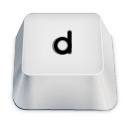
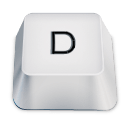
fix: change keyboards input to comply with keyboard nav

Changed region(s): [[0.375, 0.2188, 0.5938, 0.4375]]

diff --git a/host/front-end/index.html b/host/front-end/index.html
@@ -96,10 +96,10 @@
                 <h1 id="1v1_guest_timer" class="d-flex justify-content-center text d-none" data-tsnormal="45px" data-tslarge="55px"></h1>
                 <div id="o_guest_foot" class="d-flex flex-column align-items-center">
                         <div class="game_keys w-100">
-                            <img class="float-end keysup img-fluid mb-0" data-isnormal="6%" data-islarge="10%" data-alt="Keyboard Up Tuto" src="./Materials/images/ArrowUp.png"  tabindex="-1">
+                            <img class="float-end keysup img-fluid mb-0" data-isnormal="6%" data-islarge="10%" data-alt="Keyboard O Tuto" src="./Materials/images/O.png"  tabindex="-1">
                         </div>
                         <div class="game_keys w-100">
-                            <img class="keysdown float-end" src="./Materials/images/ArrowDown.png" data-alt="Keyboard Down Tuto" data-isnormal="6%" data-islarge="10%"  tabindex="-1">
+                            <img class="keysdown float-end" src="./Materials/images/L.png" data-alt="Keyboard L Tuto" data-isnormal="6%" data-islarge="10%"  tabindex="-1">
                         </div>
                 </div>
             </div>
@@ -119,12 +119,12 @@
                     <div id="l_1v1_foot" class="d-flex flex-column align-items-center">
                         <div class="game_keys w-100">
                             <img class="keysup float-start mb-2" data-isnormal="6%" data-alt="Keyboard E Tuto" data-islarge="10%" src="./Materials/images/E.png"  tabindex="-1">
-                            <img class="float-end keysup img-fluid mb-0" data-isnormal="6%" data-alt="Keyboard Up Tuto" data-islarge="10%" src="./Materials/images/ArrowUp.png"  tabindex="-1">
+                            <img class="float-end keysup img-fluid mb-0" data-isnormal="6%" data-alt="Keyboard O Tuto" data-islarge="10%" src="./Materials/images/O.png"  tabindex="-1">
                             <button id="start_1v1_local" class="btn btn-lg btn-simple btn-outline-danger mx-auto" data-tsnormal="30px" data-tslarge="40px" data-oname="Launch a game" data-title="Launch a Game"></button>
                         </div>
                         <div class="game_keys w-100">
                             <img class="keysdown float-start" src="./Materials/images/D.png" data-isnormal="6%" data-alt="Keyboard D Tuto" data-islarge="10%" tabindex="-1">
-                            <img class="keysdown float-end" src="./Materials/images/ArrowDown.png" data-alt="Keyboard Down Tuto" data-isnormal="6%" data-islarge="10%" tabindex="-1">
+                            <img class="keysdown float-end" src="./Materials/images/L.png" data-alt="Keyboard L Tuto" data-isnormal="6%" data-islarge="10%" tabindex="-1">
                         </div>
                     </div>
             </div>
@@ -143,13 +143,13 @@
                         <button id="start_2v1_local" class="btn btn-lg btn-simple btn-outline-danger mt-0" data-tsnormal="30px" data-tslarge="40px" data-oname="Launch a game"></button>
                     <div class="game_keys w-100">
                         <img class="keysup d-inline-block float-start mb-2" data-isnormal="6%" data-alt="Keyboard E Tuto" data-islarge="10%" src="./Materials/images/E.png" tabindex="-1">
-                        <img class="d-inline-block float-end keysup img-fluid mb-0" data-isnormal="6%" data-islarge="10%" data-alt="Keyboard Up Tuto" src="./Materials/images/ArrowUp.png" tabindex="-1">
-                        <img class="d-inline-block float-end keysup img-fluid mb-0" data-alt="Keyboard U Tuto" data-isnormal="6%" data-islarge="10%" src="./Materials/images/U.png" tabindex="-1">
+                        <img class="d-inline-block float-end keysup img-fluid mb-0" data-isnormal="6%" data-islarge="10%" data-alt="Keyboard O Tuto 2v1" src="./Materials/images/O.png" tabindex="-1">
+                        <img class="d-inline-block float-end keysup img-fluid mb-0" data-alt="Keyboard Y Tuto" data-isnormal="6%" data-islarge="10%" src="./Materials/images/Y.png" tabindex="-1">
                     </div>
                     <div class="game_keys w-100">
                         <img class="keysdown d-inline-block float-start" src="./Materials/images/D.png" data-alt="Keyboard D Tuto" data-isnormal="6%" data-islarge="10%" tabindex="-1">
-                        <img class="keysdown d-inline-block float-end img-fluid mb-0" src="./Materials/images/ArrowDown.png" data-alt="Keyboard Down Tuto" data-isnormal="6%" data-islarge="10%" tabindex="-1">
-                        <img class="keysdown d-inline-block float-end img-fluid mb-0" src="./Materials/images/J.png" data-alt="Keyboard J Tuto" data-isnormal="6%" data-islarge="10%" tabindex="-1">
+                        <img class="keysdown d-inline-block float-end img-fluid mb-0" src="./Materials/images/L.png" data-alt="Keyboard L Tuto 2v1" data-isnormal="6%" data-islarge="10%" tabindex="-1">
+                        <img class="keysdown d-inline-block float-end img-fluid mb-0" src="./Materials/images/H.png" data-alt="Keyboard H Tuto" data-isnormal="6%" data-islarge="10%" tabindex="-1">
                     </div>
                 </div>
             </div>
@@ -166,13 +166,13 @@
                 <div id="t_foot" class="d-flex flex-column align-items-center">
                         <div class="game_keys w-100">
                             <img class="keysup float-start mb-2" data-isnormal="6%" data-islarge="10%" data-alt="Keyboard E Tuto" src="./Materials/images/E.png" tabindex="-1">
-                            <img class= "float-end keysup img-fluid mb-0" data-isnormal="6%" data-islarge="10%" data-alt="Keyboard Up Tuto" src="./Materials/images/ArrowUp.png" tabindex="-1">
+                            <img class= "float-end keysup img-fluid mb-0" data-isnormal="6%" data-islarge="10%" data-alt="Keyboard O Tuto" src="./Materials/images/O.png" tabindex="-1">
                             <button id="t_start_game" class="btn btn-lg btn-simple btn-outline-danger mx-auto" data-tsnormal="30px" data-tslarge="40px" data-oname="Launch a game" data-title="Launch a Game"></button>
                             <button id="t_next_game" class="btn btn-lg btn-simple btn-outline-danger mx-auto" data-tsnormal="30px" data-tslarge="40px" data-oname="Next Game"></button>
                         </div>
                         <div class="game_keys w-10">
                             <img class="keysdown float-start" data-alt="Keyboard D Tuto" src="./Materials/images/D.png" data-isnormal="6%" data-islarge="10%" tabindex="-1">
-                            <img class="keysdown float-end" data-alt="Keyboard Down Tuto" src="./Materials/images/ArrowDown.png" data-isnormal="6%" data-islarge="10%" tabindex="-1">
+                            <img class="keysdown float-end" data-alt="Keyboard L Tuto" src="./Materials/images/L.png" data-isnormal="6%" data-islarge="10%" tabindex="-1">
                         </div>
                     </div>
             </div>

diff --git a/host/front-end/JavaScript/Game/game.js b/host/front-end/JavaScript/Game/game.js
@@ -65,9 +65,9 @@ function displayCountDown(nb)
         timer.classList.add("d-none");
         game_music.play();
         active = true;
+        addKeyboardMonitoring();
         if (players_nb == 1){
             startOnline1v1();
-        
         }
         else if (players_nb == 2)
             startLocal1v1();
@@ -84,111 +84,119 @@ let gameKeys = {
     KeyE: false,
     KeyD: false,
 
-    KeyU: false,
-    KeyJ: false,
+    KeyY: false,
+    KeyH: false,
 
-    ArrowUp: false,
-    ArrowDown: false,
+    KeyO: false,
+    KeyL: false,
 };
 
 // < TRIGGER > //
 
-window.addEventListener('keydown', (event) =>
-{
+function addKeyboardMonitoring(){
+    window.addEventListener('keydown', keyboardMonitoring_keyDown);
+    window.addEventListener('keyup', keyboardMonitoring_keyUp);
+}
+
+function removeKeyboardMonitoring(){
+    window.removeEventListener('keydown', keyboardMonitoring_keyDown);
+    window.removeEventListener('keyup', keyboardMonitoring_keyUp);
+}
+
+function keyboardMonitoring_keyDown(event){
+    let key = event.key.toLowerCase();
     if (players_nb != 0 && players_nb != null)
     {
-        if (event.key == 'ArrowUp' || event.key == 'ArrowDown')
-            event.preventDefault();
         if (players_nb == 1)
         {
             if (role == "host")
             {
-                if (event.key == 'e')
+                if (key == 'e')
                     gameKeys.KeyE = true;
-                else if (event.key == 'd')
+                else if (key == 'd')
                     gameKeys.KeyD = true;
             }
             else
             {
 
-                if (event.key == 'ArrowUp')
-                    gameKeys.ArrowUp = true
-                else if (event.key == 'ArrowDown')
-                    gameKeys.ArrowDown = true
+                if (key == 'o')
+                    gameKeys.KeyO = true
+                else if (key == 'l')
+                    gameKeys.KeyL = true
             }
         }
         if (players_nb == 2)
         {
 
-            if (event.key == 'ArrowUp'){
-                gameKeys.ArrowUp = true;
+            if (key == 'o'){
+                gameKeys.KeyO = true;
             }
-            else if (event.key == 'ArrowDown')
-                gameKeys.ArrowDown = true;
+            else if (key == 'l')
+                gameKeys.KeyL = true;
 
-            if (event.key == 'e')
+            if (key == 'e')
                 gameKeys.KeyE = true;
-            else if (event.key == 'd')
+            else if (key == 'd')
                 gameKeys.KeyD = true;
         }
         else if (players_nb == 3)
         {
 
-            if (event.key == 'e')
+            if (key == 'e')
                 gameKeys.KeyE = true;
-            else if (event.key == 'd')
+            else if (key == 'd')
                 gameKeys.KeyD = true;
 
-            if (event.key == 'u')
-                gameKeys.KeyU = true;
-            else if (event.key == 'j')
-                gameKeys.KeyJ = true;
+            if (key == 'y')
+                gameKeys.KeyY = true;
+            else if (key == 'h')
+                gameKeys.KeyH = true;
 
-            if (event.key == 'ArrowUp')
-                gameKeys.ArrowUp = true;
-            else if (event.key == 'ArrowDown')
-                gameKeys.ArrowDown = true;
+            if (key == 'o')
+                gameKeys.KeyO = true;
+            else if (key == 'l')
+                gameKeys.KeyL = true;
         }
     }
-});
+}
 
-window.addEventListener('keyup', (event) =>
-{
+function keyboardMonitoring_keyUp(event){
+    let key = event.key.toLowerCase()
     if (players_nb == 1)
     {
         if (role == "host")
         {
-            if (event.key == 'e')
+            if (key == 'e')
                 gameKeys.KeyE = false;
-            else if (event.key == 'd')
+            else if (key == 'd')
                 gameKeys.KeyD = false;
         }
         else
         {
-            if (event.key == 'ArrowUp')
-                gameKeys.ArrowUp = false
-            else if (event.key == 'ArrowDown')
-                gameKeys.ArrowDown = false
+            if (key == 'o')
+                gameKeys.KeyO = false
+            else if (key == 'l')
+                gameKeys.KeyL = false
         }
     }
     else
     {
-        if (event.key == 'ArrowUp')
-            gameKeys.ArrowUp = false;
-        else if (event.key == 'ArrowDown')
-            gameKeys.ArrowDown = false;
+        if (key == 'o')
+            gameKeys.KeyO = false;
+        else if (key == 'l')
+            gameKeys.KeyL = false;
 
-        if (event.key == 'e')
+        if (key == 'e')
             gameKeys.KeyE = false;
-        else if (event.key == 'd')
+        else if (key == 'd')
             gameKeys.KeyD = false;
 
         if (players_nb == 3)
         {
-            if (event.key == 'u')
-                gameKeys.KeyU = false;
-            else if (event.key == 'j')
-                gameKeys.KeyJ = false;
+            if (key == 'y')
+                gameKeys.KeyY = false;
+            else if (key == 'h')
+                gameKeys.KeyH = false;
         }
     }
-});
+}

diff --git a/host/front-end/JavaScript/Languages/fr.js b/host/front-end/JavaScript/Languages/fr.js
@@ -238,12 +238,14 @@ let fr = [
 
     ["Top Logo Alt", "Logo du site web. Tactical Tennis Action Metal Gear Pong. Retour au menu principal."],
 
-    ["Keyboard U Tuto", "Touche  U du clavier. Informe l'utilisateur en haut à droite de la touche clavier à utiliser pour aller vers le haut."],
-    ["Keyboard J Tuto", "Touche  J du clavier. Informe l'utilisateur en haut a droite de la touche clavier à utiliser pour aller vers le bas."],
+    ["Keyboard Y Tuto", "Touche  Y du clavier. Informe l'utilisateur en haut à droite de la touche clavier à utiliser pour aller vers le haut."],
+    ["Keyboard H Tuto", "Touche  H du clavier. Informe l'utilisateur en haut a droite de la touche clavier à utiliser pour aller vers le bas."],
     ["Keyboard E Tuto", "Touche  E du clavier. Informe l'utilisateur de gauche de la touche clavier à utiliser pour aller vers le haut."],
     ["Keyboard D Tuto", "Touche  D du clavier. Informe l'utilisateur de gauche de la touche clavier à utiliser pour aller vers le bas."],
-    ["Keyboard Up Tuto", "Touche flèche du haut du clavier. Informe l'utilisateur de droite de la touche clavier à utiliser pour aller vers le haut."],
-    ["Keyboard Down Tuto", "Touche flèche du bas du clavier. Informe l'utilisateur de droite de la touche clavier à utiliser pour aller vers le bas."],
+    ["Keyboard O Tuto", "Touche O du clavier. Informe l'utilisateur de droite de la touche clavier à utiliser pour aller vers le haut."],
+    ["Keyboard L Tuto", "Touche L du clavier. Informe l'utilisateur de droite de la touche clavier à utiliser pour aller vers le bas."],
+    ["Keyboard O Tuto 2v1", "Touche O du clavier. Informe l'utilisateur en bas à droite de la touche clavier à utiliser pour aller vers le haut."],
+    ["Keyboard L Tuto 2v1", "Touche L du clavier. Informe l'utilisateur en bas à droite de la touche clavier à utiliser pour aller vers le bas."],
 
     ["Music Icon", "Icòne de la musique. Cliquez pour activer ou désactiver la musique"],
     ["Sound Icon", "Icône du son. Cliquez pour activer ou désactiver les sons"],

diff --git a/host/front-end/JavaScript/Languages/en.js b/host/front-end/JavaScript/Languages/en.js
@@ -234,12 +234,14 @@ let en = [
 
     ["Top Logo Alt", "Website logo : Tactical Tennis Action Metal Gear Pong. Get back to main menu."],
 
-    ["Keyboard U Tuto", "U keyboard key, inform the top-right player that this input is used to go up in the game."],
-    ["Keyboard J Tuto", "J keyboard key, inform the top-right player that this input is used to go down in the game."],
+    ["Keyboard Y Tuto", "Y keyboard key, inform the top-right player that this input is used to go up in the game."],
+    ["Keyboard H Tuto", "H keyboard key, inform the top-right player that this input is used to go down in the game."],
     ["Keyboard E Tuto", "E keyboard key, inform the left player that, this input is used to go up in the game."],
     ["Keyboard D Tuto", "D keyboard key, inform the left player that this input is used to go down in the game."],
-    ["Keyboard Up Tuto", "Up Arrow keyboard key, inform the right player that this input is used to go up in the game."],
-    ["Keyboard Down Tuto", "Down Arrow keyboard key, inform the right player that this input is used to go down in the game."],
+    ["Keyboard O Tuto", "O keyboard key, inform the right player that this input is used to go up in the game."],
+    ["Keyboard L Tuto", "L keyboard key, inform the right player that this input is used to go down in the game."],
+    ["Keyboard O Tuto 2v1", "O keyboard key, inform the bottom-right player that this input is used to go up in the game."],
+    ["Keyboard L Tuto 2v1", "L keyboard key, inform the bottom-right player that this input is used to go down in the game."],
 
     ["Music Icon", "Music icon. Click to toggle musics on or off."],
     ["Sound Icon", "Sound icon. Click to toggle sounds on or off."],

diff --git a/host/front-end/JavaScript/Game/oneVsTwoLocal.js b/host/front-end/JavaScript/Game/oneVsTwoLocal.js
@@ -269,14 +269,14 @@ class LocalGame1v2
         if (gameKeys.KeyD == true)
             this.left_player.moveDown();
 
-        if (gameKeys.KeyU == true)
+        if (gameKeys.KeyY == true)
             this.right_player_1.moveUp();
-        if (gameKeys.KeyJ == true)
+        if (gameKeys.KeyH == true)
             this.right_player_1.moveDown();
 
-        if (gameKeys.ArrowUp == true)
+        if (gameKeys.KeyO == true)
             this.right_player_2.moveUp();
-        if (gameKeys.ArrowDown == true)
+        if (gameKeys.KeyL == true)
             this.right_player_2.moveDown();
 
         this.left_player.print();
@@ -416,6 +416,7 @@ function startLocal1v2()
 {
     if (game.isOver() == true || active == false)
     {
+        removeKeyboardMonitoring();
         game.refreshBackground();
         game.resetGame();
         active = false;

diff --git a/host/front-end/JavaScript/Game/oneVsOneLocal.js b/host/front-end/JavaScript/Game/oneVsOneLocal.js
@@ -254,9 +254,9 @@ class LocalGame1v1
         if (gameKeys.KeyD == true)
             this.left_player.moveDown();
 
-        if (gameKeys.ArrowUp == true)
+        if (gameKeys.KeyO == true)
             this.right_player.moveUp();
-        if (gameKeys.ArrowDown == true)
+        if (gameKeys.KeyL == true)
             this.right_player.moveDown();
 
         this.left_player.print();
@@ -407,6 +407,7 @@ function startLocal1v1()
     setTimeout(()=> {
         if (game.isOver() == true || active == false)
         {
+            removeKeyboardMonitoring();
             game.refreshBackground();
             game.resetGame();
             active = false;

diff --git a/host/front-end/JavaScript/Game/ball.js b/host/front-end/JavaScript/Game/ball.js
@@ -199,9 +199,9 @@ class Ball
         }
         else
         {
-            if (gameKeys.ArrowUp == true || (players_nb == 3 && gameKeys.KeyU == true))
+            if (gameKeys.KeyO == true || (players_nb == 3 && gameKeys.KeyY == true))
                 this.direction = this.direction + 5;
-            else if (gameKeys.ArrowDown == true || (players_nb == 3 && gameKeys.KeyJ == true))
+            else if (gameKeys.KeyL == true || (players_nb == 3 && gameKeys.KeyH == true))
                 this.direction = this.direction - 5;
         }
     }

diff --git a/host/front-end/JavaScript/Game/Online/onevsOneOnline_guest.js b/host/front-end/JavaScript/Game/Online/onevsOneOnline_guest.js
@@ -253,12 +253,12 @@ class OnlineGame1v1_guest
 
     refreshPlayers()
     {
-        if (gameKeys.ArrowUp == true){
+        if (gameKeys.KeyO == true){
             data_channel.send(`rpy:${this.right_player.y}`)
             this.right_player.moveUp();
             this.dist++;
         }
-        if (gameKeys.ArrowDown == true){
+        if (gameKeys.KeyL == true){
             data_channel.send(`rpy:${this.right_player.y}`)
             this.right_player.moveDown();
             this.dist++;

diff --git a/host/front-end/JavaScript/Game/Online/initOnlineGame.js b/host/front-end/JavaScript/Game/Online/initOnlineGame.js
@@ -77,6 +77,7 @@ function startOnline1v1()
     setTimeout(() => {
         if (game.isOver() == true || active == false)
         {
+            removeKeyboardMonitoring();
             game.refreshBackground();
             game.resetGame();
             active = false;

diff --git a/host/front-end/JavaScript/Tournament/tournament.js b/host/front-end/JavaScript/Tournament/tournament.js
@@ -50,6 +50,7 @@ function t_displayCountDown(nb)
         timer.innerHTML = getTranslation("Go!");
     else if (nb == -1)
     {
+        addKeyboardMonitoring();
         game_music.play();
         timer.style.display = "none";
         active = true;
